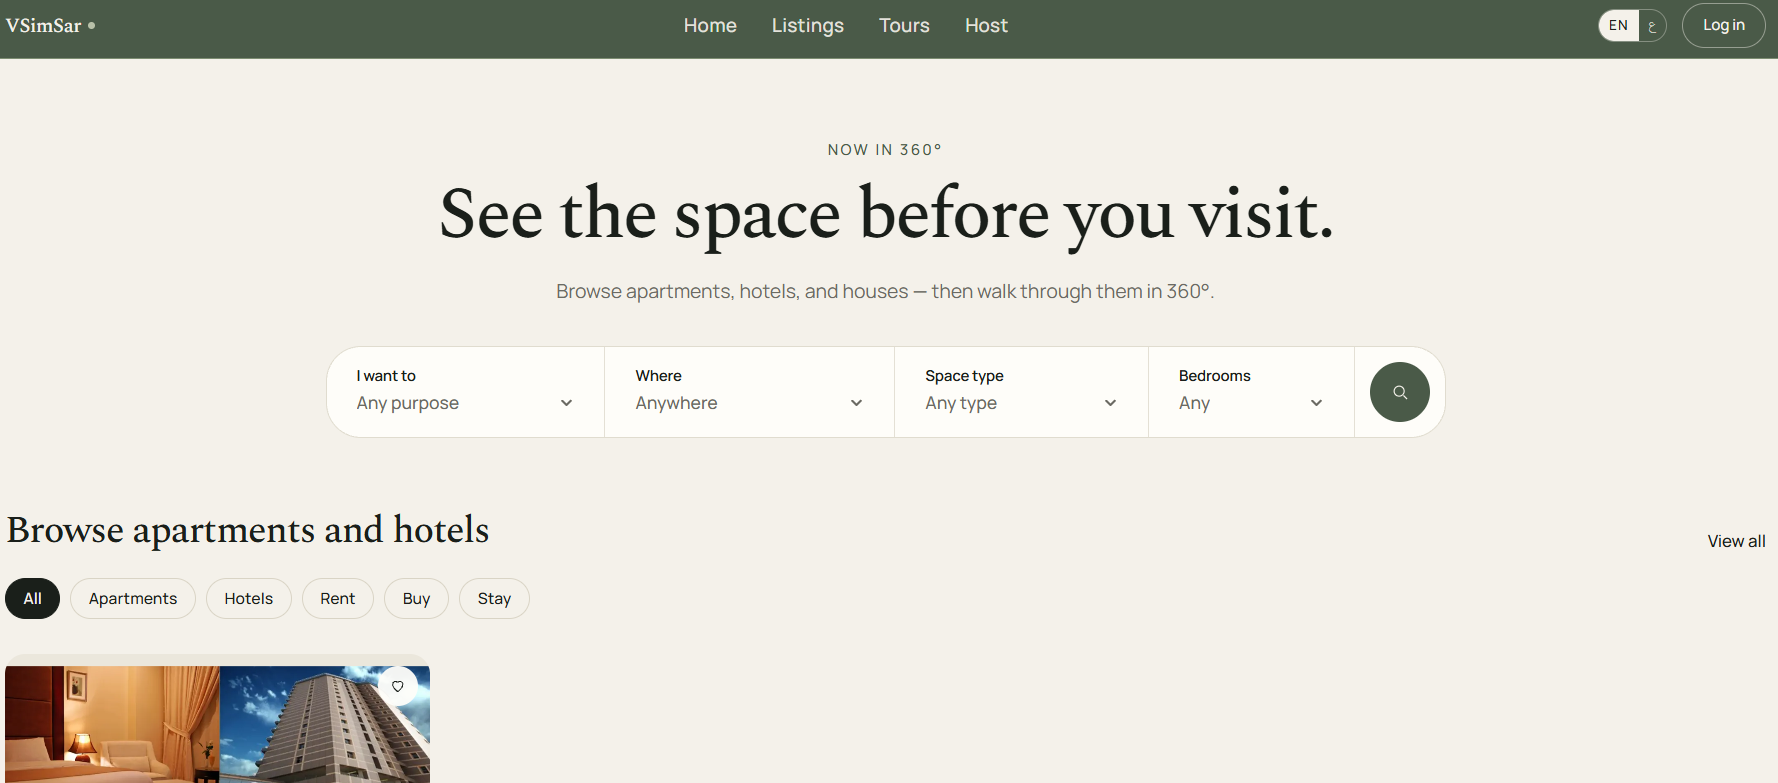
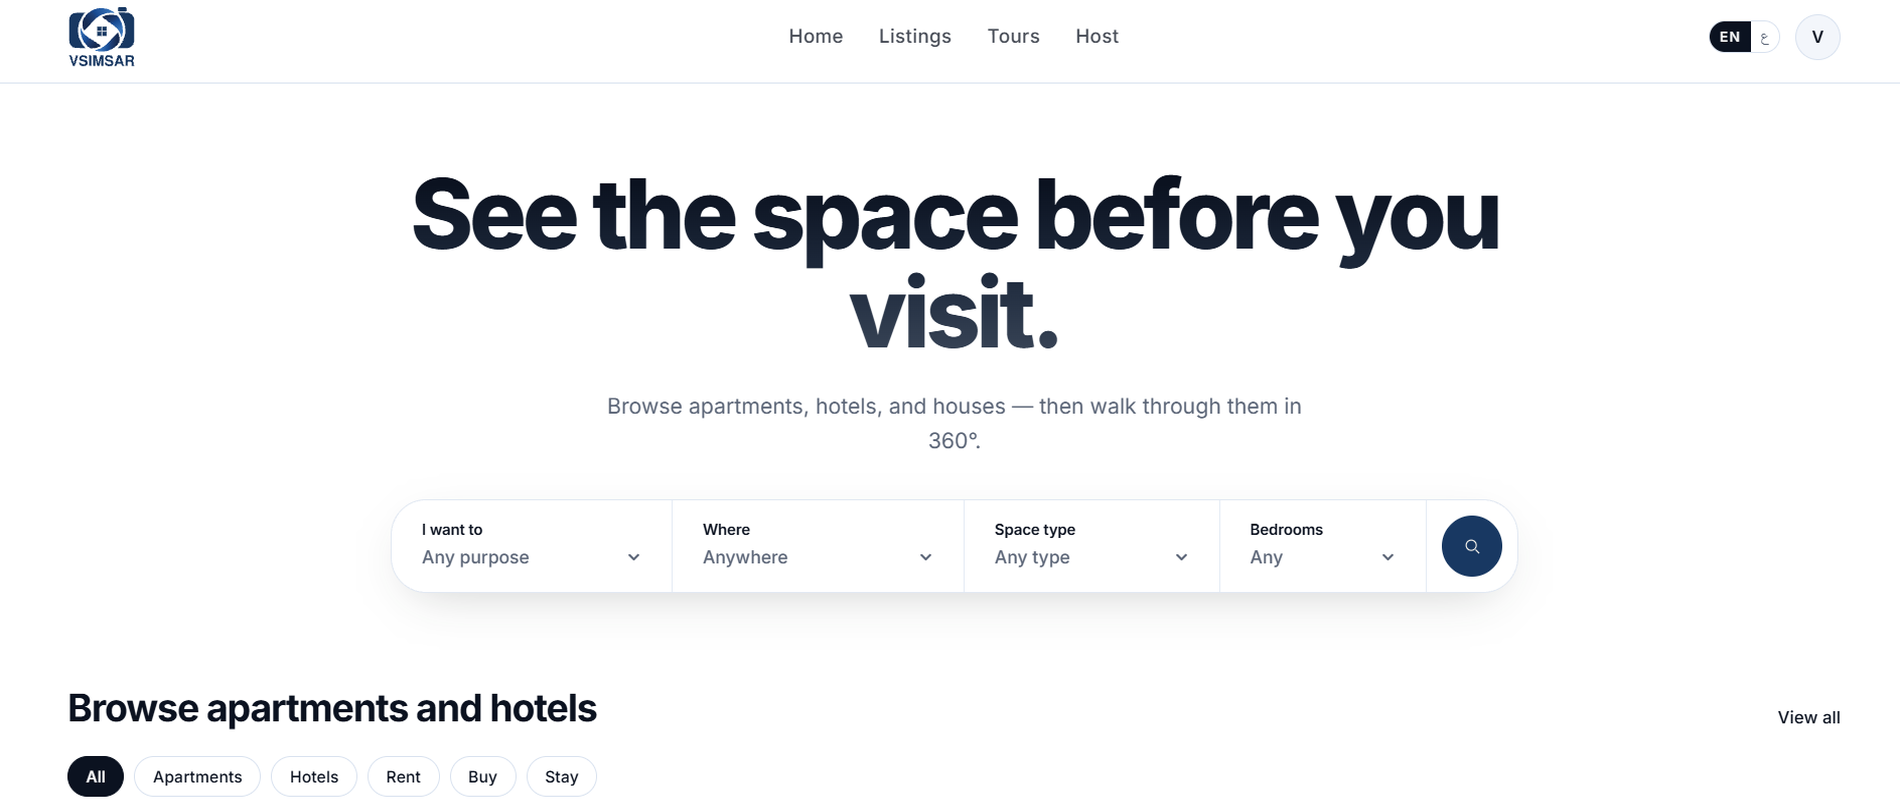
Portfolio fix

diff --git a/public/style.css b/public/style.css
@@ -307,10 +307,10 @@ hr {
 
 .project-card img {
     width: 100%;
-    height: 350px;
-    object-fit: cover;
+    height: auto;
     display: block;
     border-bottom: 1px solid rgba(71, 85, 105, 0.3);
+    border-radius: 20px 20px 0 0;
 }
 
 .project-info {
@@ -756,7 +756,7 @@ hr {
     }
 
     .project-card img {
-        height: 250px;
+        height: auto;
     }
 
     .project-info {
